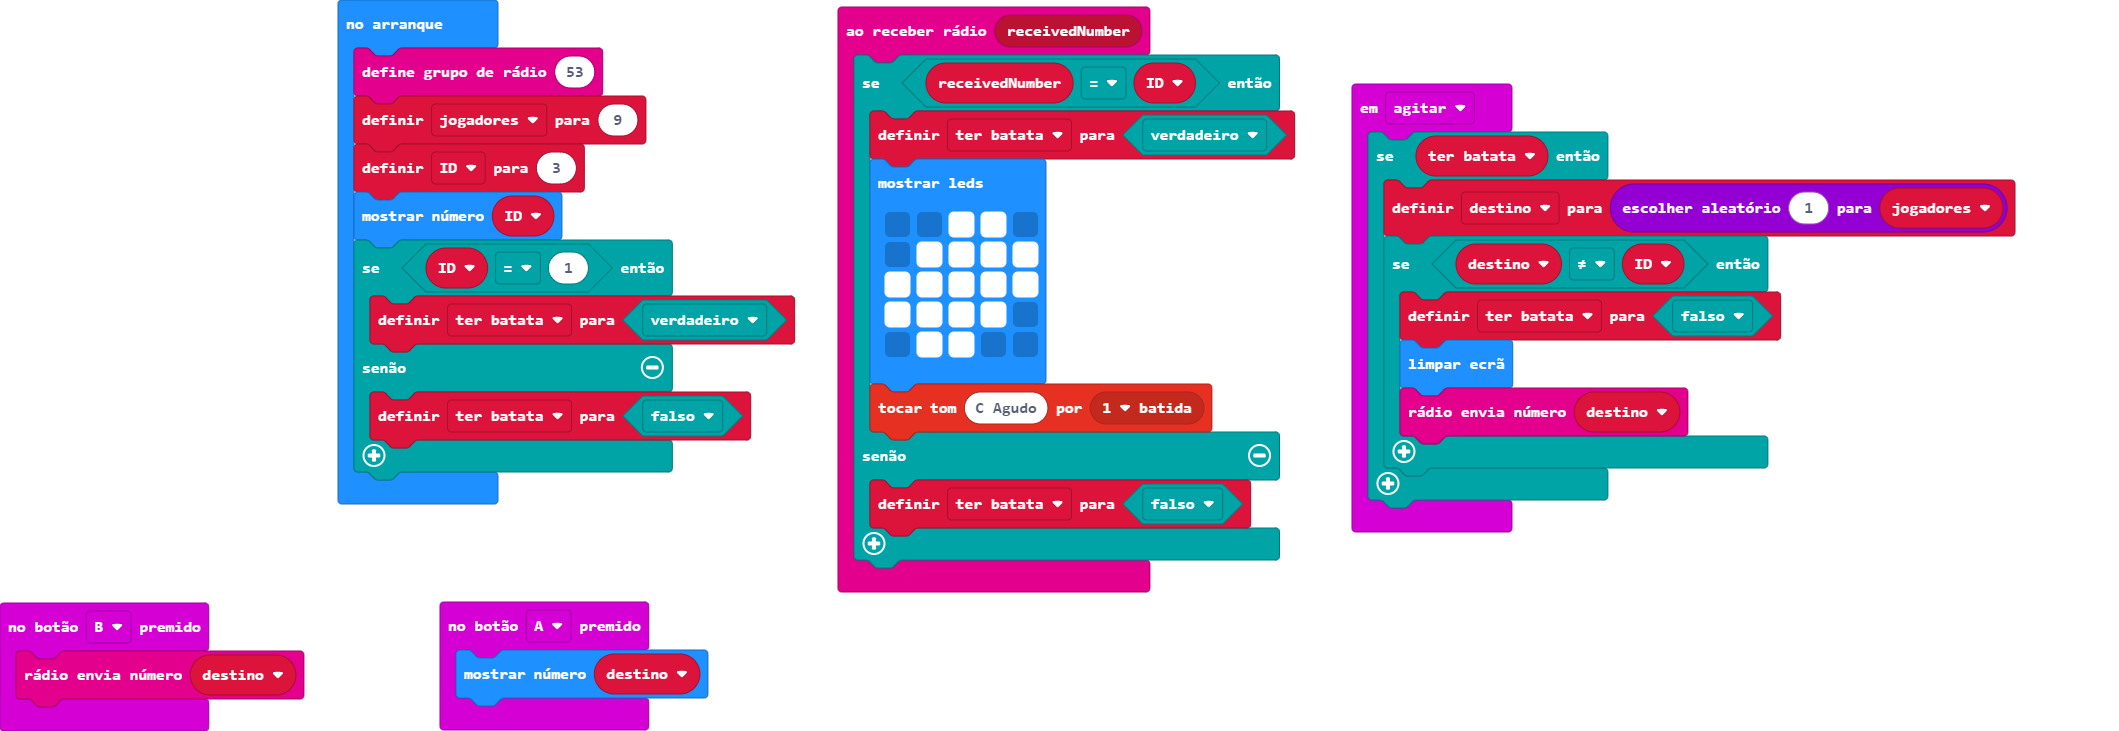
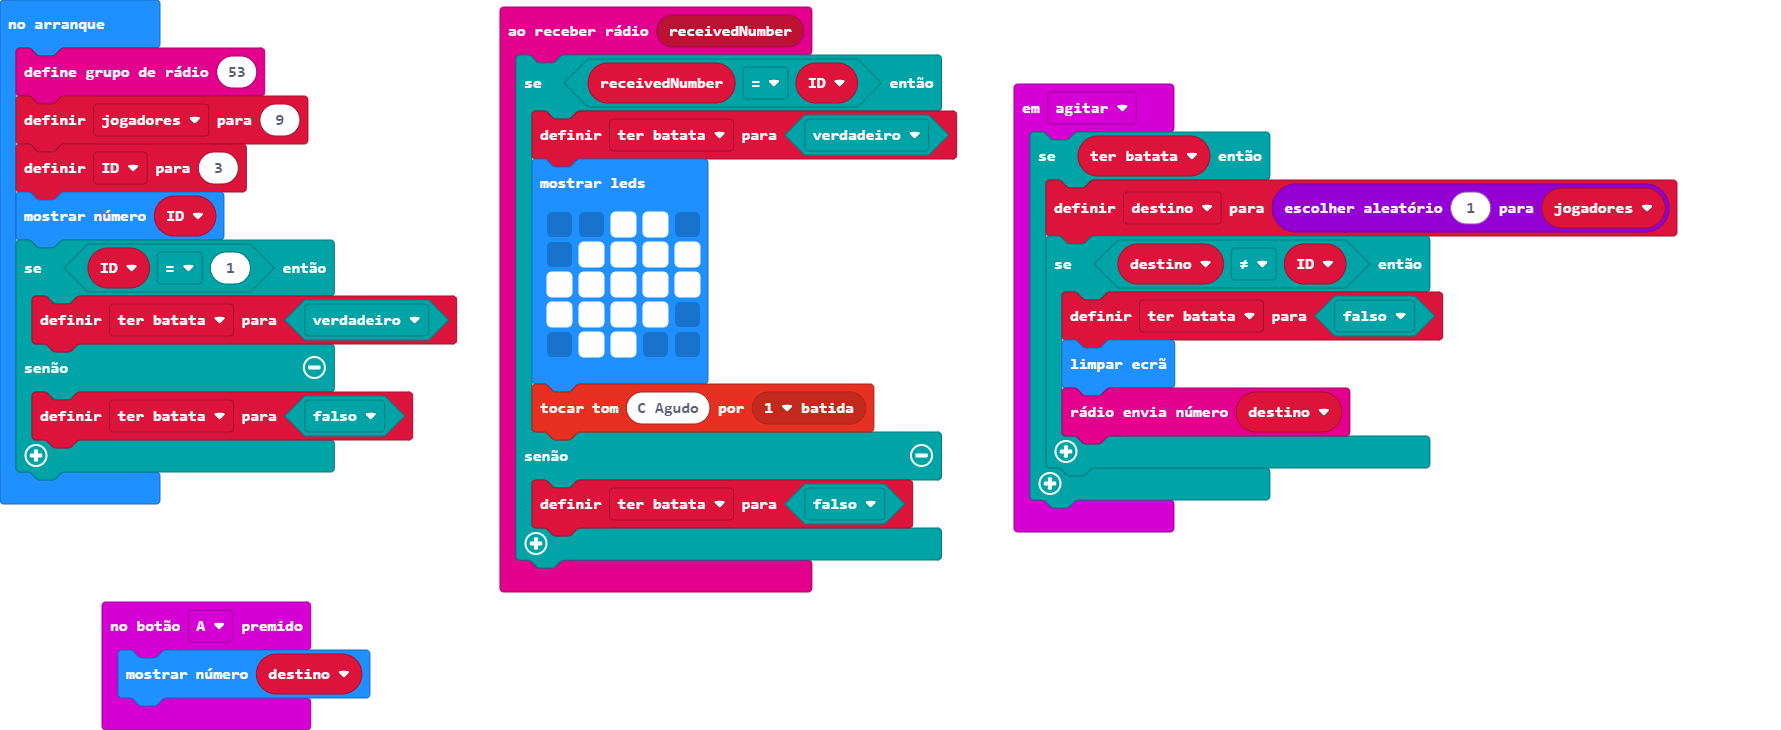
tirei botão de mandar outra vez o numero para não dar problemas

diff --git a/main.ts b/main.ts
@@ -26,9 +26,6 @@ input.onGesture(Gesture.Shake, function () {
         }
     }
 })
-input.onButtonPressed(Button.B, function () {
-    radio.sendNumber(destino)
-})
 let destino = 0
 let ter_batata = false
 let ID = 0
